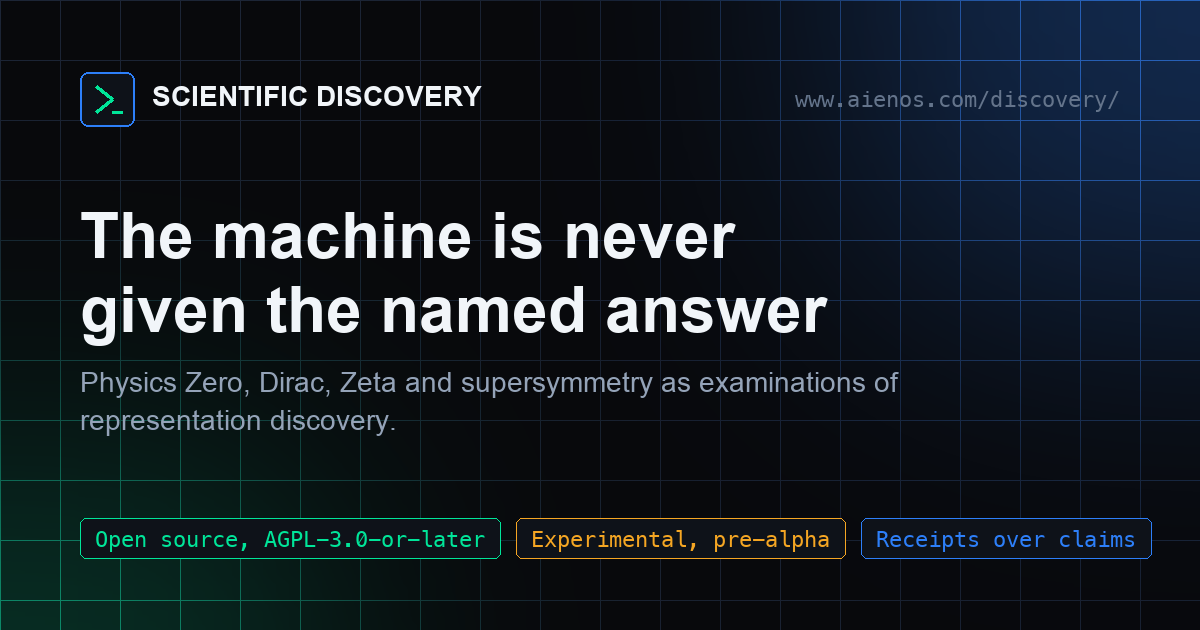
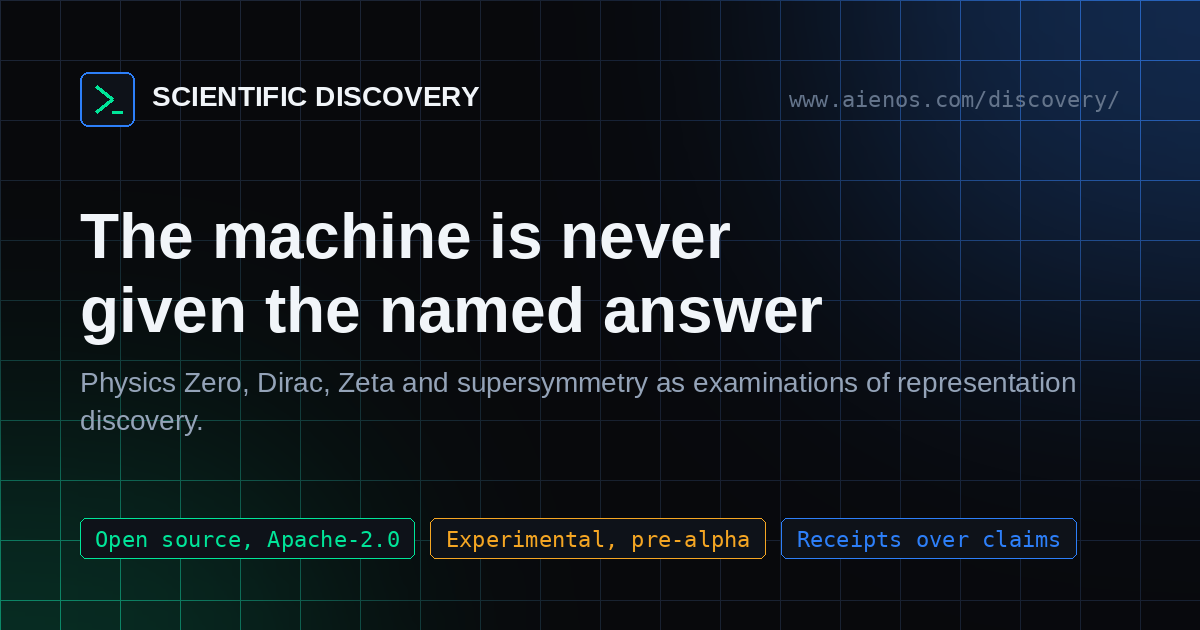
social cards: Apache-2.0 badge, versioned card image, license URL to /licensing/
The link preview on X and elsewhere still showed 'Open source, AGPL-3.0-or-later'
on every card; the repositories returned to Apache-2.0 WITH LLVM-exception on
2026-10-23. Redraw all ten cards, add ?v= to og:image/twitter:image so unfurlers
fetch the new picture, and point the structured-data license at /licensing/
instead of the AGPL text. The font lookup now prefers Liberation Sans (Arial
metrics) on Linux so cards drawn off macOS keep the same layout.

diff --git a/scripts/og-cards.py b/scripts/og-cards.py
@@ -71,15 +71,18 @@ CARDS = [
 FONT_DIRS = ["/System/Library/Fonts/Supplemental", "/System/Library/Fonts",
              "/usr/share/fonts/truetype/dejavu", "/usr/share/fonts/truetype/liberation"]
 def font(names, size):
-    for d in FONT_DIRS:
-        for n in names:
+    # Names in preference order: Arial and Menlo on macOS; on Linux, Liberation
+    # Sans (Arial's metrics) and DejaVu Sans Mono (Menlo's source), so a card
+    # drawn on either machine keeps the same line breaks and badge widths.
+    for n in names:
+        for d in FONT_DIRS:
             p = os.path.join(d, n)
             if os.path.exists(p):
                 return ImageFont.truetype(p, size)
     return ImageFont.load_default(size)
 
-BOLD = ["Arial Bold.ttf", "DejaVuSans-Bold.ttf", "LiberationSans-Bold.ttf"]
-REG = ["Arial.ttf", "DejaVuSans.ttf", "LiberationSans-Regular.ttf"]
+BOLD = ["Arial Bold.ttf", "LiberationSans-Bold.ttf", "DejaVuSans-Bold.ttf"]
+REG = ["Arial.ttf", "LiberationSans-Regular.ttf", "DejaVuSans.ttf"]
 MONO = ["Menlo.ttc", "DejaVuSansMono.ttf", "LiberationMono-Regular.ttf"]
 
 def glow(base, xy, r, color, alpha):
@@ -135,7 +138,7 @@ def card(file, kicker, claim, sub, address):
         y += 38
     # Badges along the bottom.
     bx = 80
-    for label, col in (("Open source, AGPL-3.0-or-later", GREEN), ("Experimental, pre-alpha", (245, 166, 35)), ("Receipts over claims", BLUE)):
+    for label, col in (("Open source, Apache-2.0", GREEN), ("Experimental, pre-alpha", (245, 166, 35)), ("Receipts over claims", BLUE)):
         tw = d.textlength(label, font=fm)
         d.rounded_rectangle((bx, 518, bx + tw + 30, 558), radius=6, outline=col, width=1, fill=(14, 18, 25, 255))
         d.text((bx + 15, 526), label, font=fm, fill=col)

diff --git a/crates/site-builder/src/seo.rs b/crates/site-builder/src/seo.rs
@@ -30,7 +30,11 @@ pub const AUTHOR: &str = "M. Drake Stapleton";
 pub const AUTHOR_URL: &str = "https://www.drakestapleton.com";
 pub const AUTHOR_GITHUB: &str = "https://github.com/drakestapleton";
 pub const LICENSE_NAME: &str = "Apache-2.0 WITH LLVM-exception";
-pub const LICENSE_URL: &str = "https://www.gnu.org/licenses/agpl-3.0.html";
+pub const LICENSE_URL: &str = "https://www.aienos.com/licensing/";
+/// Bump whenever scripts/og-cards.py redraws the cards: X and other link
+/// unfurlers cache a card image by its URL, so a new query string makes them
+/// fetch the new picture instead of showing the old one.
+pub const OG_IMAGE_VERSION: &str = "20261025";
 
 /// What a page is, for structured data.
 #[derive(Clone, Copy, PartialEq, Eq, Debug)]
@@ -619,7 +623,7 @@ fn head_block(page: &Emitted, info: &PageInfo, facts: &HeadFacts, has_mirror: bo
     let title = if facts.og_title.is_empty() { facts.title.clone() } else { facts.og_title.clone() };
     let description = if facts.og_description.is_empty() { facts.description.clone() } else { facts.og_description.clone() };
     let og_type = if !facts.og_type.is_empty() { facts.og_type.clone() } else { match info.kind { Kind::Article | Kind::Paper => "article".into(), _ => "website".into() } };
-    let image = format!("{HOST}{}", info.image);
+    let image = format!("{HOST}{}?v={OG_IMAGE_VERSION}", info.image);
     let image_alt = escape(&format!("{SITE_NAME}: {}", info.name));
     let locale = if page.is_zh() { "zh_CN" } else { "en_US" };
     let mut b = String::new();
